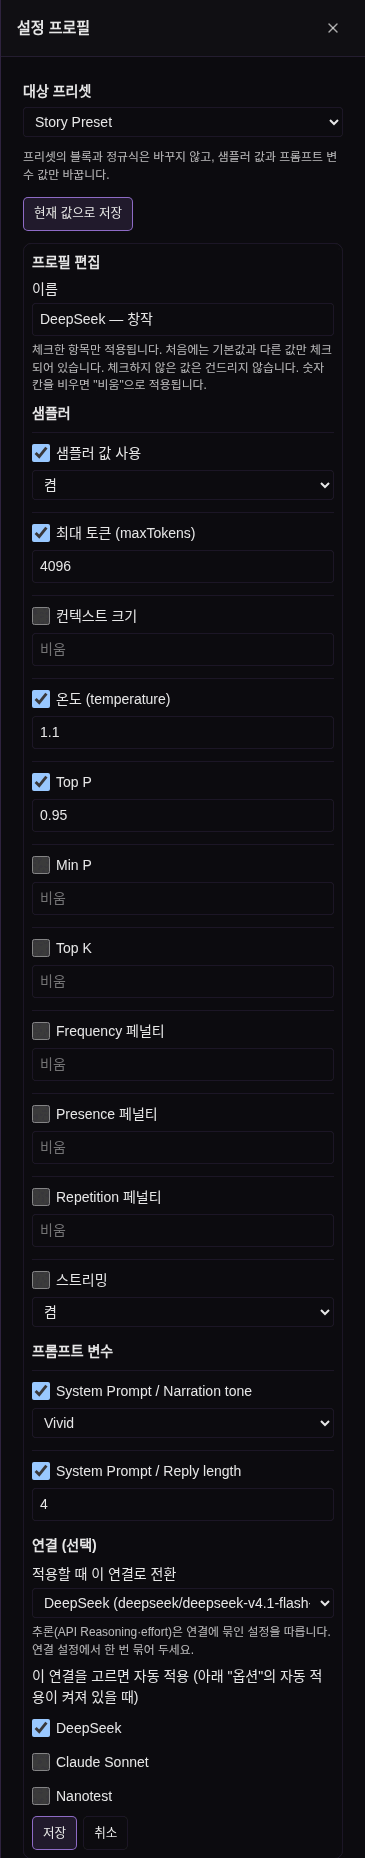
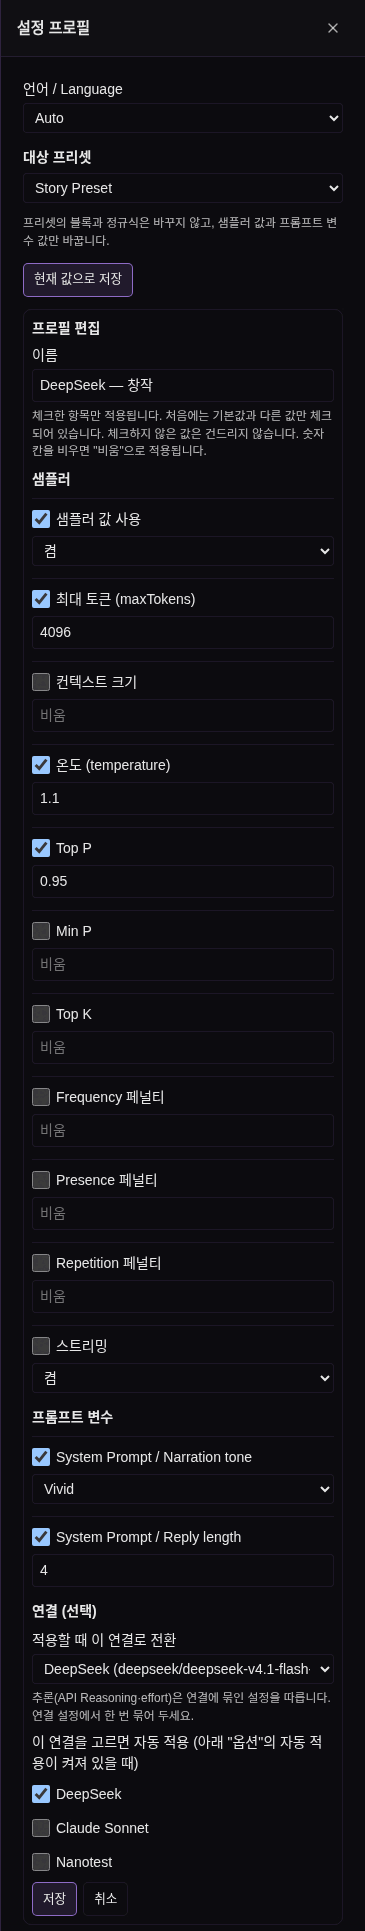
README: 영어 부분은 영어 화면 스크린샷, 한국어 스크린샷 0.2.0 기준으로 다시

diff --git a/README.md b/README.md
@@ -8,7 +8,7 @@ One extension includes both Korean and English UI. In the Profiles Drawer tab, c
 
 **Auto follows Lumiverse's interface language (Settings → Display → Interface language)**, stored as `lumiverse-ui-language`: Korean selects Korean; every other stored language selects English. If no preference is stored (or storage is unavailable), Auto uses `navigator.language`: Korean when it starts with `ko`, otherwise English. Manual selection overrides Auto. Auto rechecks after host language changes (at 0, 150, and 500ms, stopping when the stored value changes), on storage events, and when the window gains focus or becomes visible. Existing status messages also follow language changes. Screenshots show the Korean UI; the guide lists both button labels.
 
-![Profiles drawer tab with a target preset and two saved profile cards](docs/images/profiles-tab.png)
+![Profiles drawer tab with a target preset and two saved profile cards](docs/images/profiles-tab-en.png)
 
 ## Features
 
@@ -38,7 +38,7 @@ One extension includes both Korean and English UI. In the Profiles Drawer tab, c
    - **`generation` — optional:** enables connection switching and auto-apply; manual sampler/variable profiles work without it. No model calls are made.
 4. Open the Drawer’s **세팅 / Settings P.** tab (full title: **설정 프로필 / Setting Profiles**).
 
-![Setting Profiles enabled in Extensions with presets and generation permissions](docs/images/extension-permissions.png)
+![Setting Profiles enabled in Extensions with presets and generation permissions](docs/images/extension-permissions-en.png)
 
 ## Usage
 
@@ -53,7 +53,7 @@ One extension includes both Korean and English UI. In the Profiles Drawer tab, c
 
 **Input tips:** A checked blank numeric field clears its override. With samplers enabled, cleared temperature/max tokens use **1.0 / 16384**; other cleared numbers are omitted. Zero also omits some parameters. Range variables use `[1, 5]`; multiselect variables use option IDs such as `["a", "b"]`.
 
-![Profile form with checked samplers, prompt variables, and a connection selector](docs/images/profile-form.png)
+![Profile form with checked samplers, prompt variables, and a connection selector](docs/images/profile-form-en.png)
 
 ## Settings
 
@@ -65,7 +65,7 @@ Only profiles for the **active preset** qualify. Assign one profile per preset/c
 
 **Reasoning / effort** follows Lumiverse's connection bindings; configure it in connection settings. This extension does not edit it.
 
-![Auto-apply option and the profile connection trigger checkboxes](docs/images/auto-apply.png)
+![Auto-apply option and the profile connection trigger checkboxes](docs/images/auto-apply-en.png)
 
 ## Safety and undo
 
